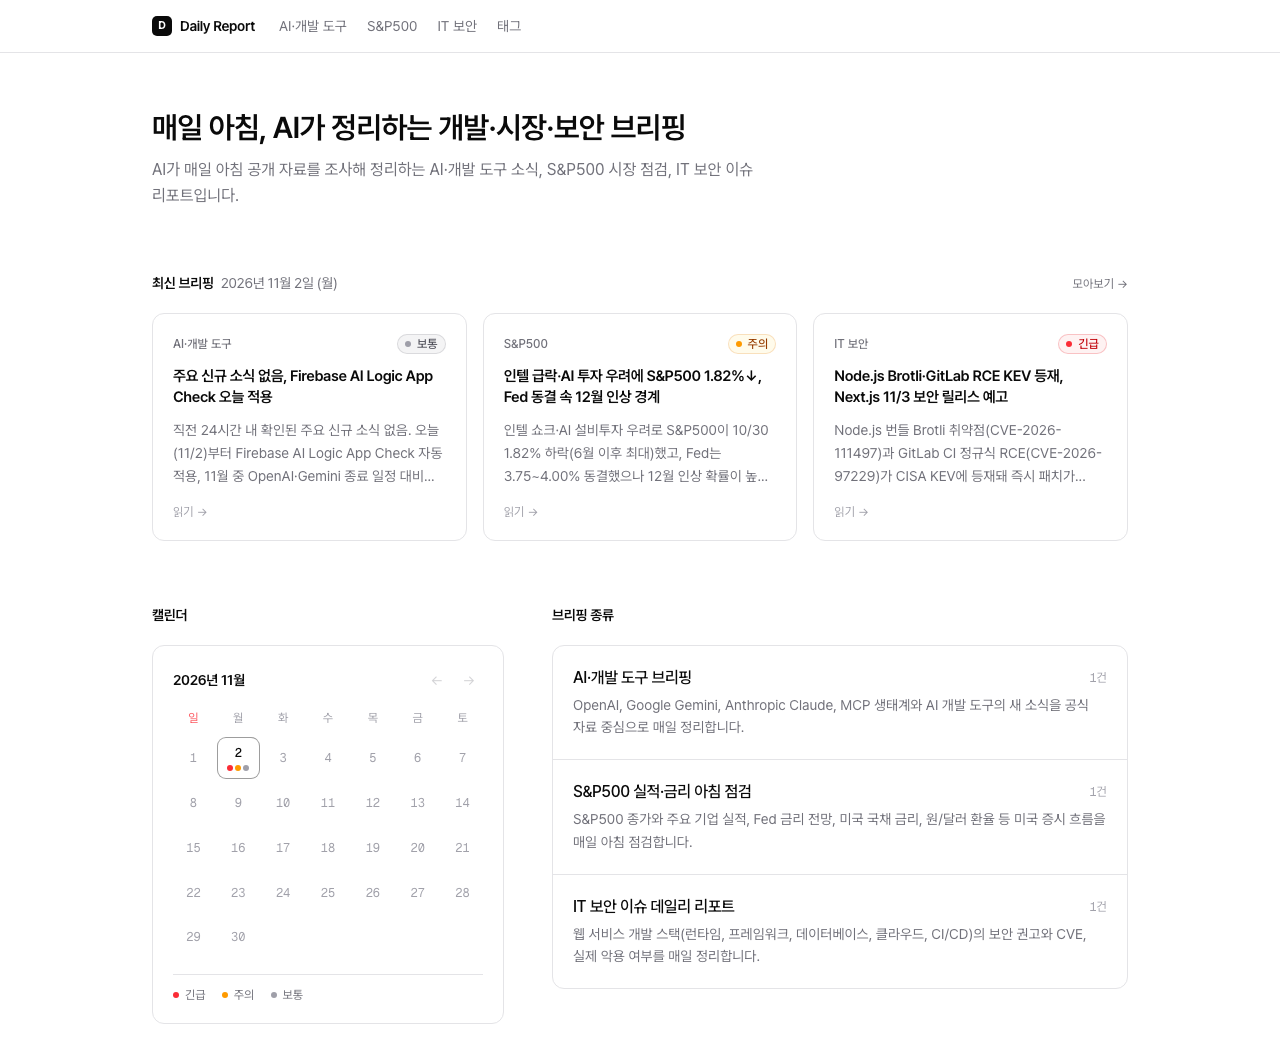
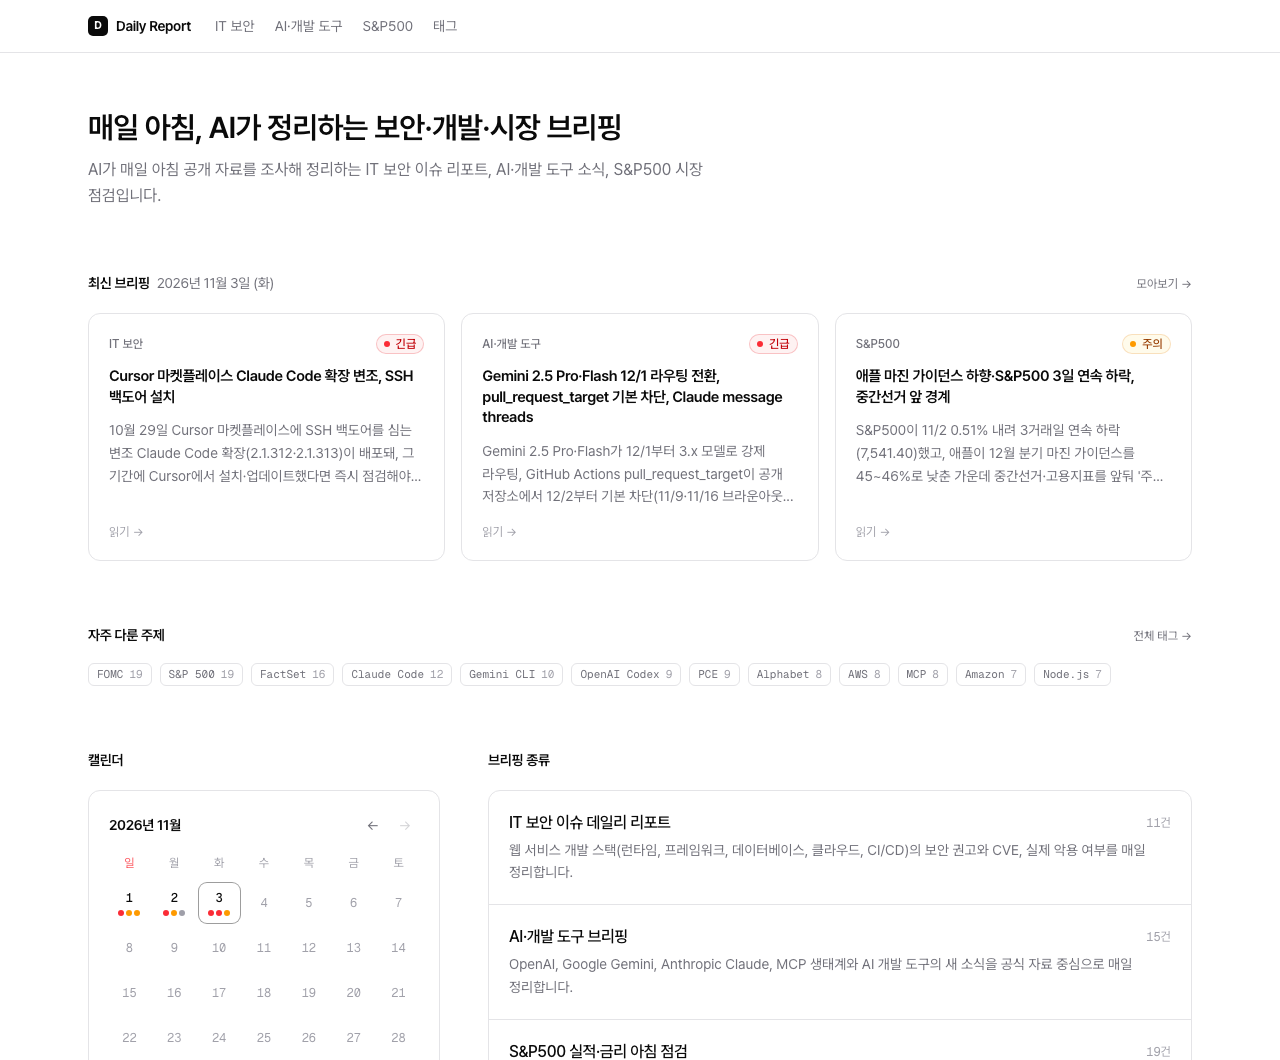
docs: README 스크린샷과 기능 설명 갱신

diff --git a/README.md b/README.md
@@ -15,7 +15,7 @@
 ![Vercel](https://img.shields.io/badge/Vercel-static-000?logo=vercel)
 
 <img src="docs/images/home-light.png" alt="홈 화면: 최신 브리핑 카드 3개와 월 캘린더" width="49%" />
-<img src="docs/images/report-dark.png" alt="보고서 상세 화면(다크 모드)" width="49%" />
+<img src="docs/images/report-dark.png" alt="보고서 상세 화면(다크 모드): 왼쪽 날짜 목록, 가운데 본문, 오른쪽 목차" width="49%" />
 
 </div>
 
@@ -65,6 +65,7 @@ flowchart LR
 - Pretendard + Geist Mono, 단어 단위 줄바꿈(`keep-all`), 시스템 설정을 따르는 다크 모드
 - 날짜는 KST 문자열로만 다뤄 UTC 빌드 서버에서 하루가 밀리지 않습니다.
 - AI가 쓴 본문은 원시 HTML을 렌더링하지 않습니다.
+- 넓은 화면에서는 문서 사이트처럼 왼쪽에 같은 보고서의 날짜 목록, 오른쪽에 소제목 목차가 붙고, 지금 읽는 절이 목차에 표시됩니다. 휴대폰에서는 목차가 접힌 상자로 들어갑니다.
 
 ## 🔐 내 프로젝트 보안 점검 (Claude Code 스킬)
 
@@ -117,6 +118,8 @@ daily-report/
 |---|---|
 | 보고서 사이트 | [`2026-11-02_report-site/plan.md`](.claude/feature/2026-11-02_report-site/plan.md) |
 | 태그별 페이지 | [`2026-11-02_tag-pages/plan.md`](.claude/feature/2026-11-02_tag-pages/plan.md) |
+| 루틴 다듬기·보안 후속 확인 | [`2026-11-03_routine-tuning/plan.md`](.claude/feature/2026-11-03_routine-tuning/plan.md) |
+| 보고서 목차·날짜 목록 | [`2026-11-03_report-toc/plan.md`](.claude/feature/2026-11-03_report-toc/plan.md) |
 
 기획서에는 결정 사항과 그 이유, 예외 케이스 목록, 계획과 달라진 점, 실제로 돌려 본 검증 결과가 들어 있습니다.
 
